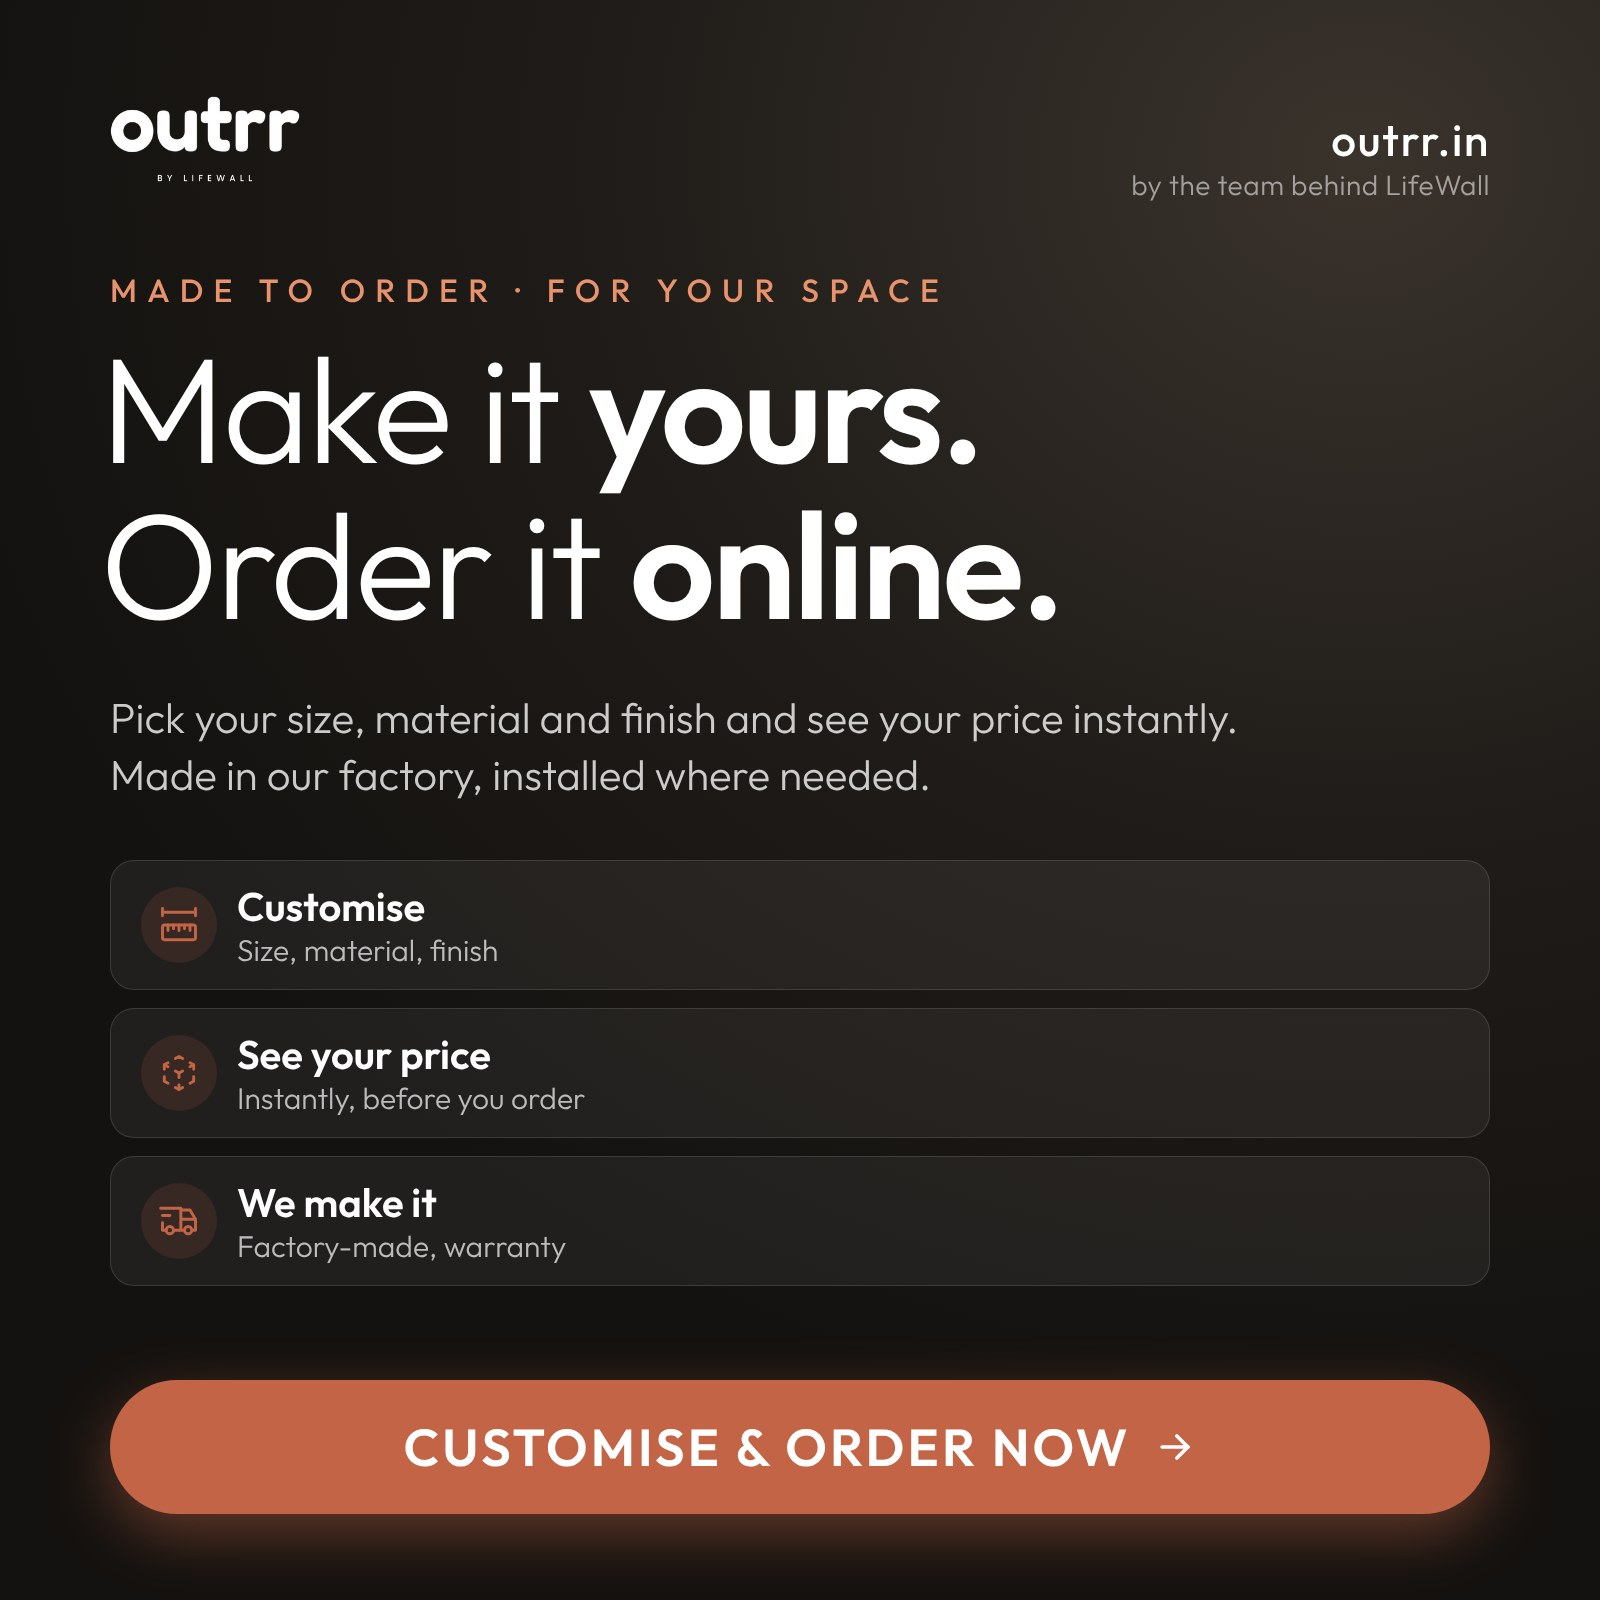
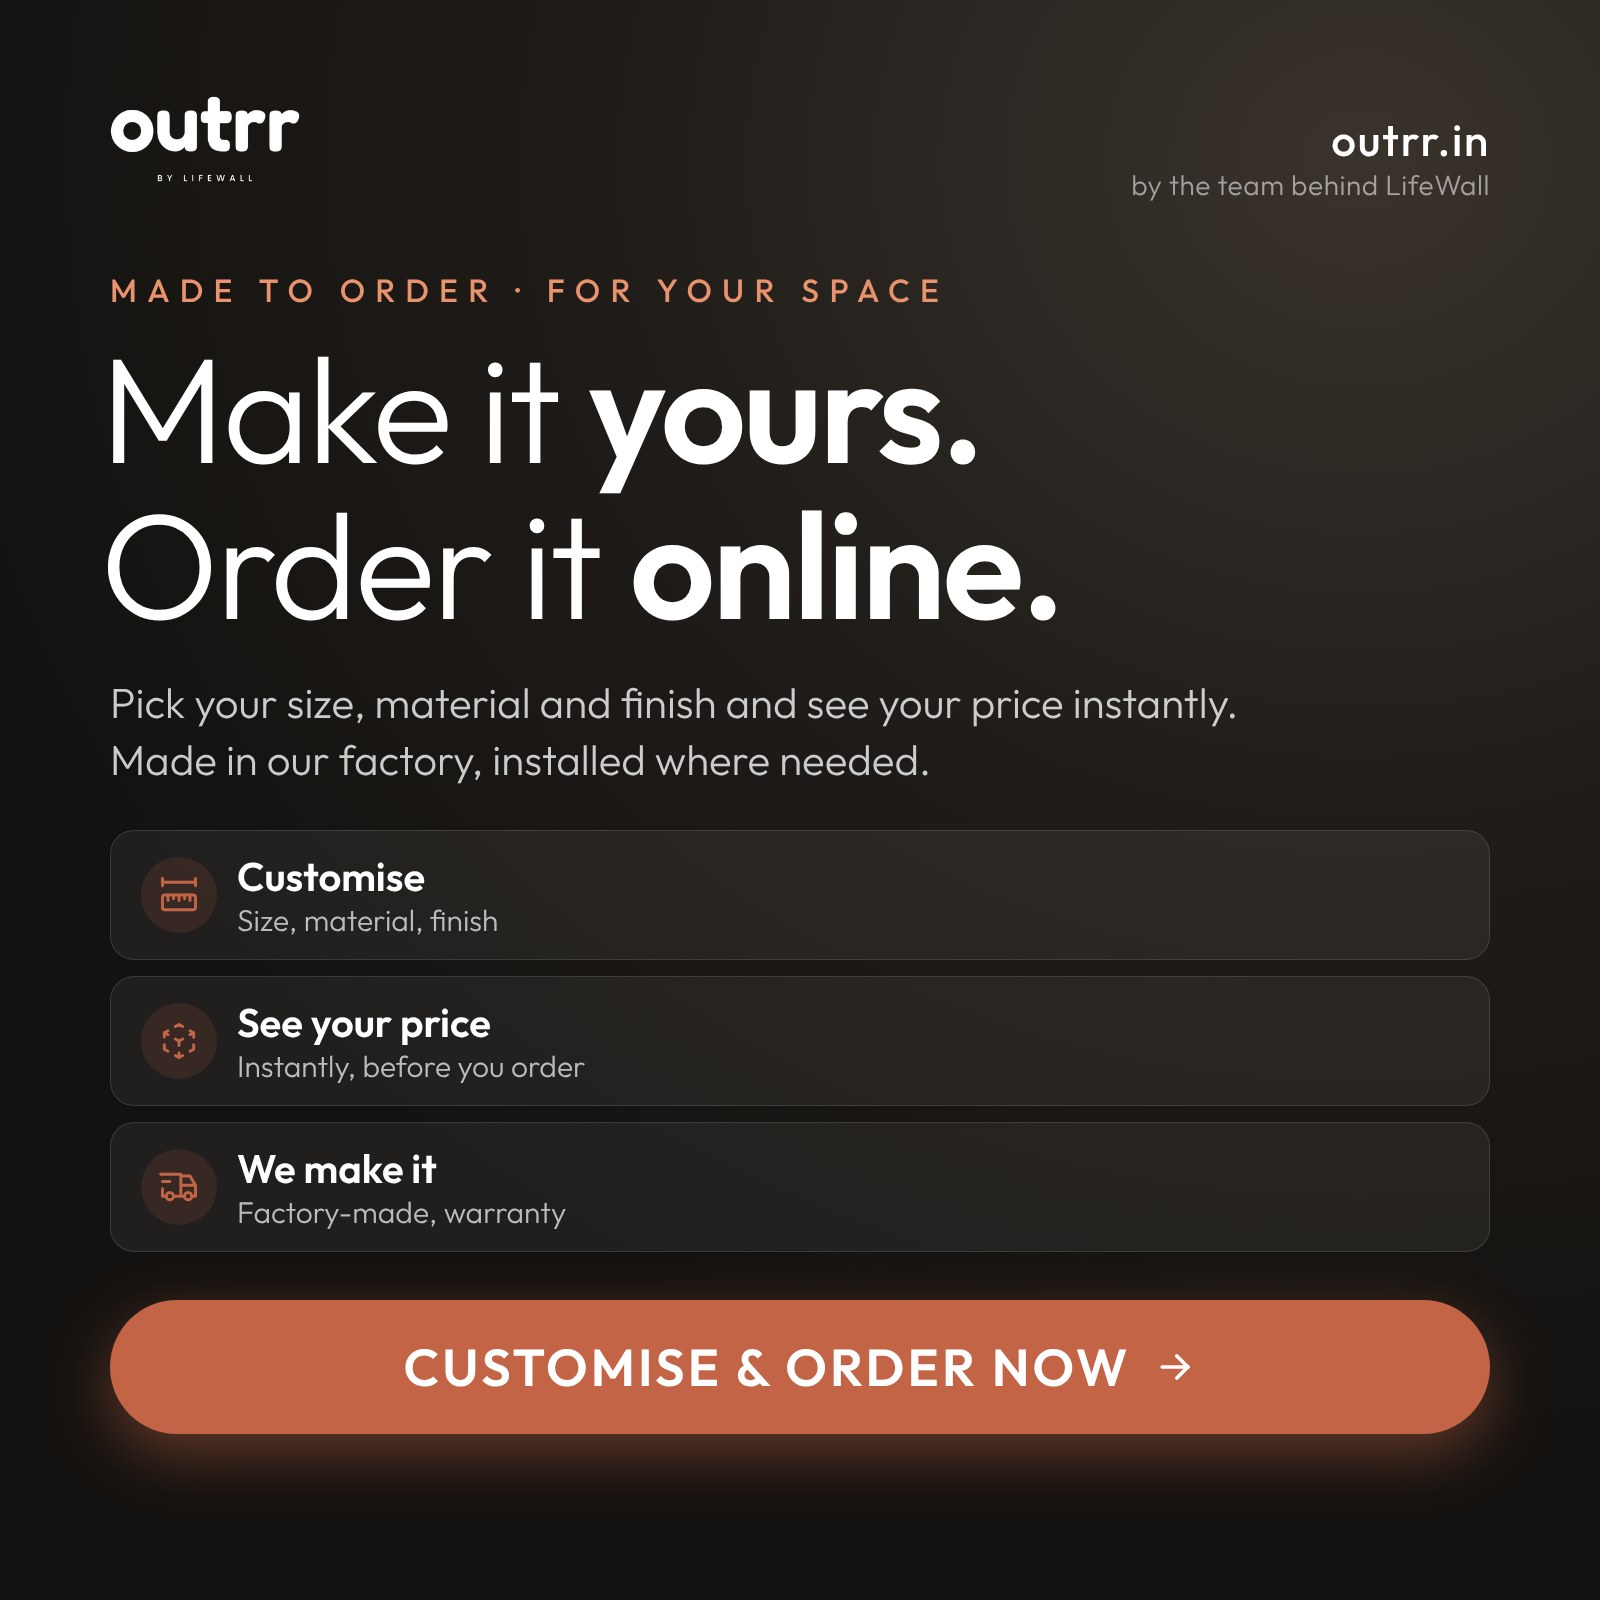
Customise & order now photo: button above the photo counter
Claude-Session: https://claude.ai/code/session_0114bxXWz4pnWhYTHorKKwDt

Changed region(s): [[0.0625, 0.5312, 0.9375, 0.9688], [0.0625, 0.4375, 0.7812, 0.5]]

diff --git a/index.html b/index.html
@@ -2996,7 +2996,7 @@ function pdSwipe(el, next, prev, tap){ let x0=null,y0=0,t0=0,multi=false;
   if(tap) el.addEventListener('click',e=>{ if(e.target.closest('button')) return; tap(); }); }
 // full-screen viewer: swipe between photos, double-tap / tap the zoom button / pinch to zoom, drag to look around
 let LZ={s:1,x:0,y:0};
-const MTO_CTA='/img/trust/mto-cta.jpg?v=2';
+const MTO_CTA='/img/trust/mto-cta.jpg?v=3';
 function mtoCtaGo(){ const b=document.querySelector('.pp-go')||[...document.querySelectorAll('button[onclick="buyNow()"]')].find(e=>e.offsetParent&&!e.disabled); if(b){ b.scrollIntoView&&b.scrollIntoView({block:'center'}); b.click(); return true; } return false; }
 function lbxOpen(){ const g0=window.PDG; if(g0&&g0.list[g0.i]===MTO_CTA&&mtoCtaGo()) return;   // the "Customise & order now" photo acts as the button
   let b=document.getElementById('lbx');
